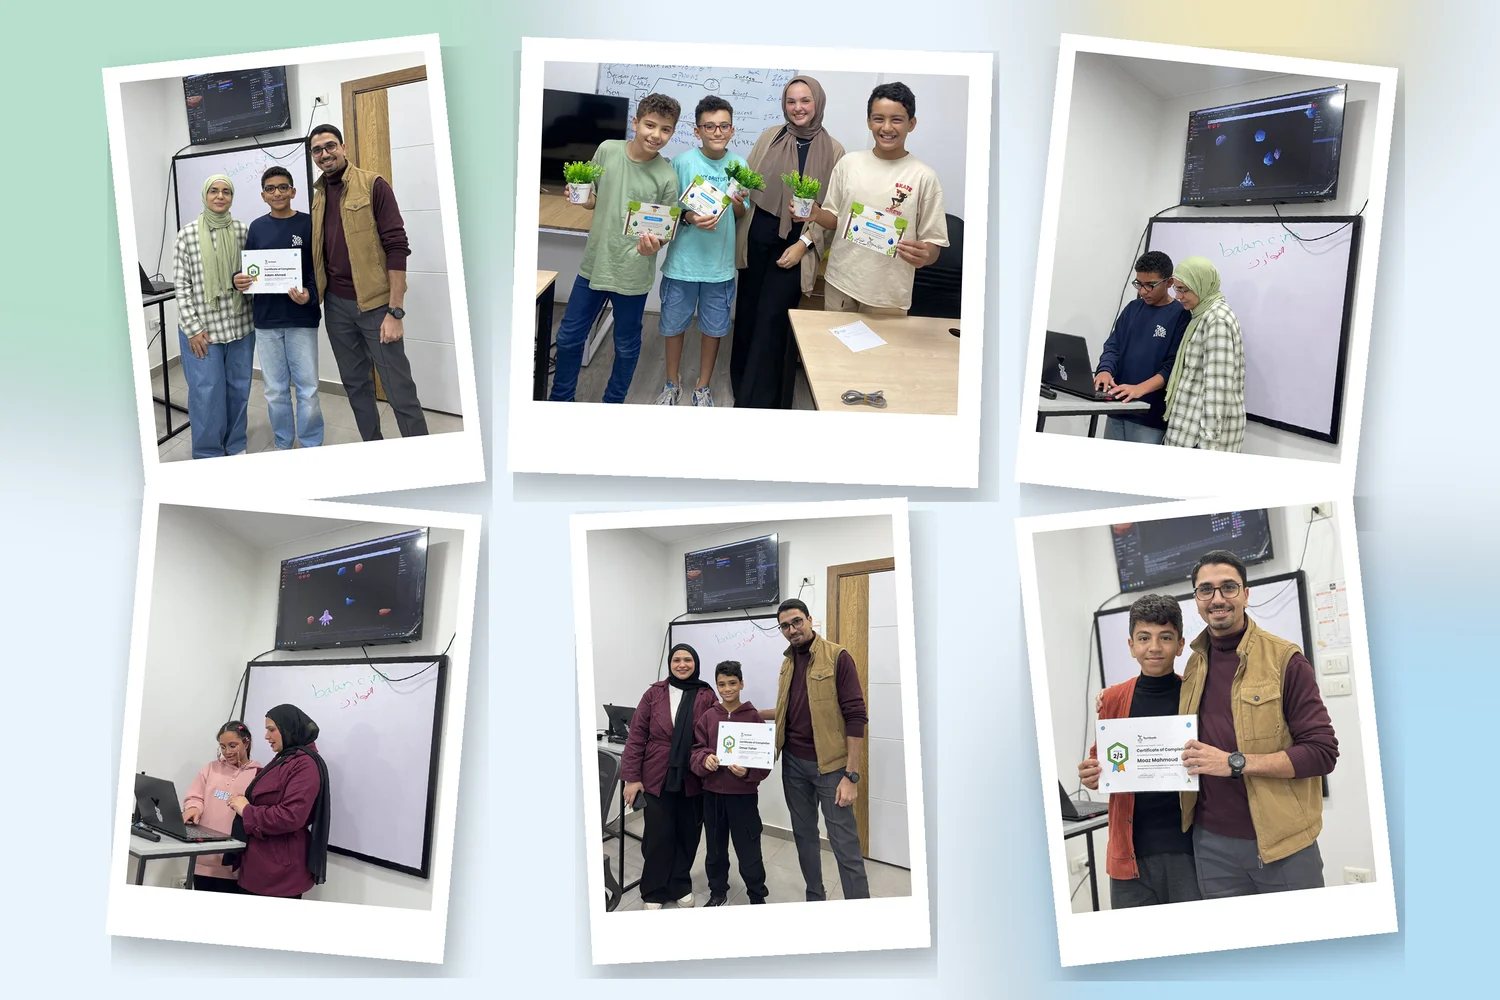
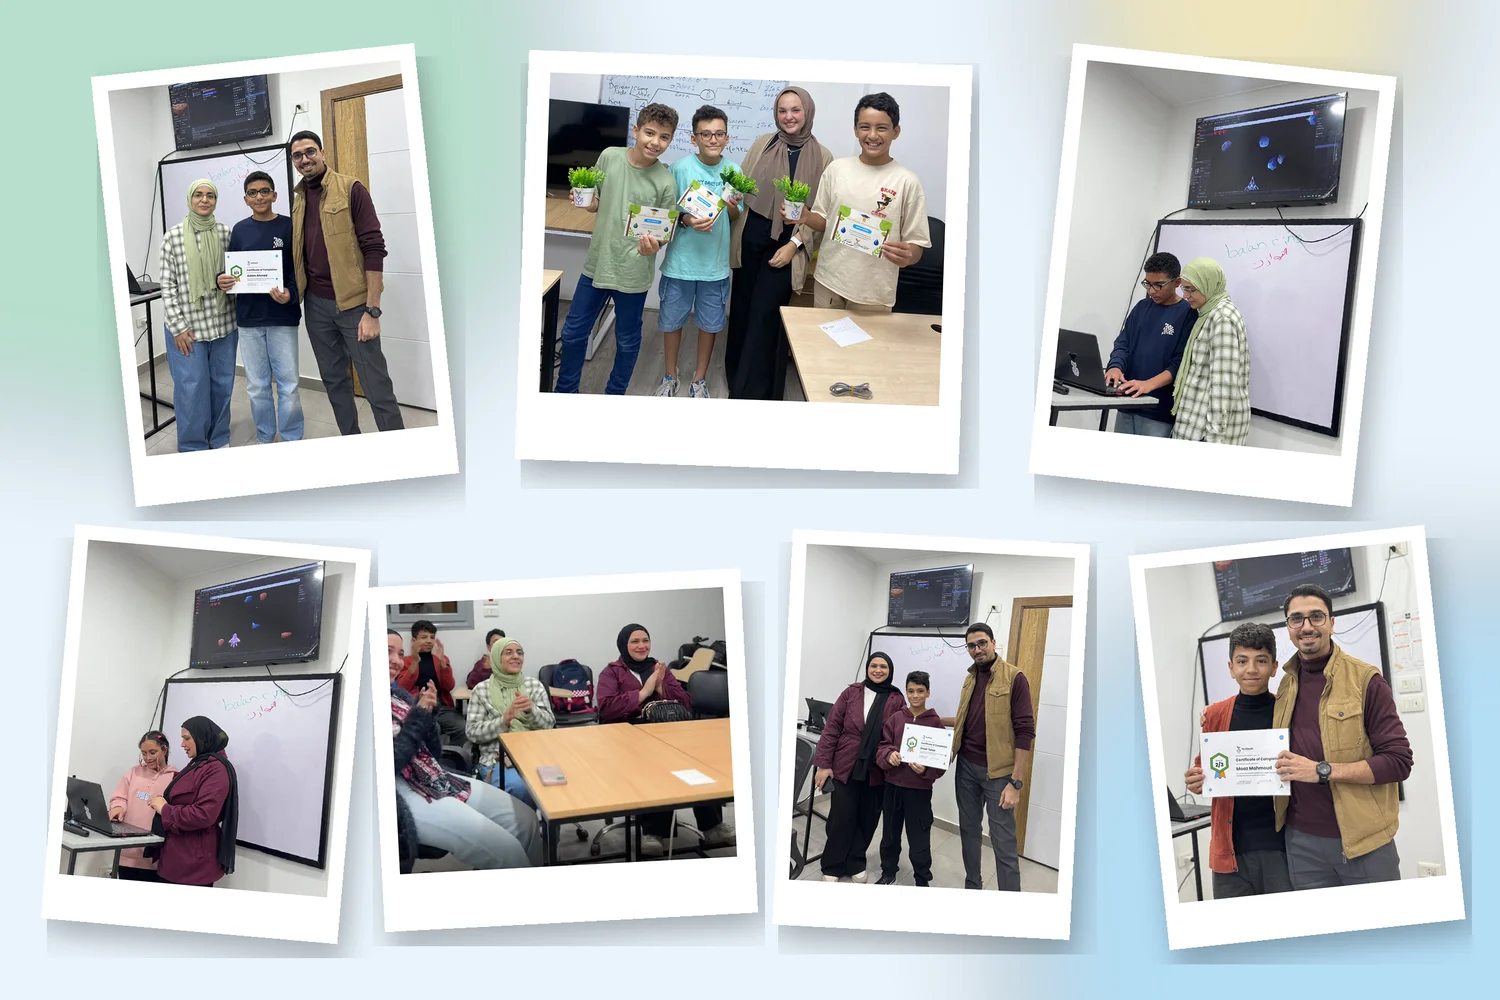
Final collage: add the audience clapping at the game demo
Seven prints: three on top, four below.

Claude-Session: https://claude.ai/code/session_0118LCqpnsoRvY3rCMNMx8cc

diff --git a/src/lib/media.ts b/src/lib/media.ts
@@ -42,7 +42,7 @@ export const MEDIA = {
     src: local('team-standing-v2'),
     alt: { ar: 'فريق تدريس تك سيدز', en: 'The TechSeeds teaching team' },
   },
-  // Our students with their certificates: six photos (certificates and two game-demo shots) as tilted prints in one 3:2 image.
+  // Our students with their certificates: seven photos (certificates, two game demos and the audience clapping) as tilted prints in one 3:2 image.
   finalCta: {
     src: local('final-collage'),
     alt: { ar: 'طلاب تك سيدز وهم يستلمون شهادات إتمام المستوى ويعرضون الألعاب التي صمموها', en: 'TechSeeds students receiving their level certificates and showing the games they built' },
